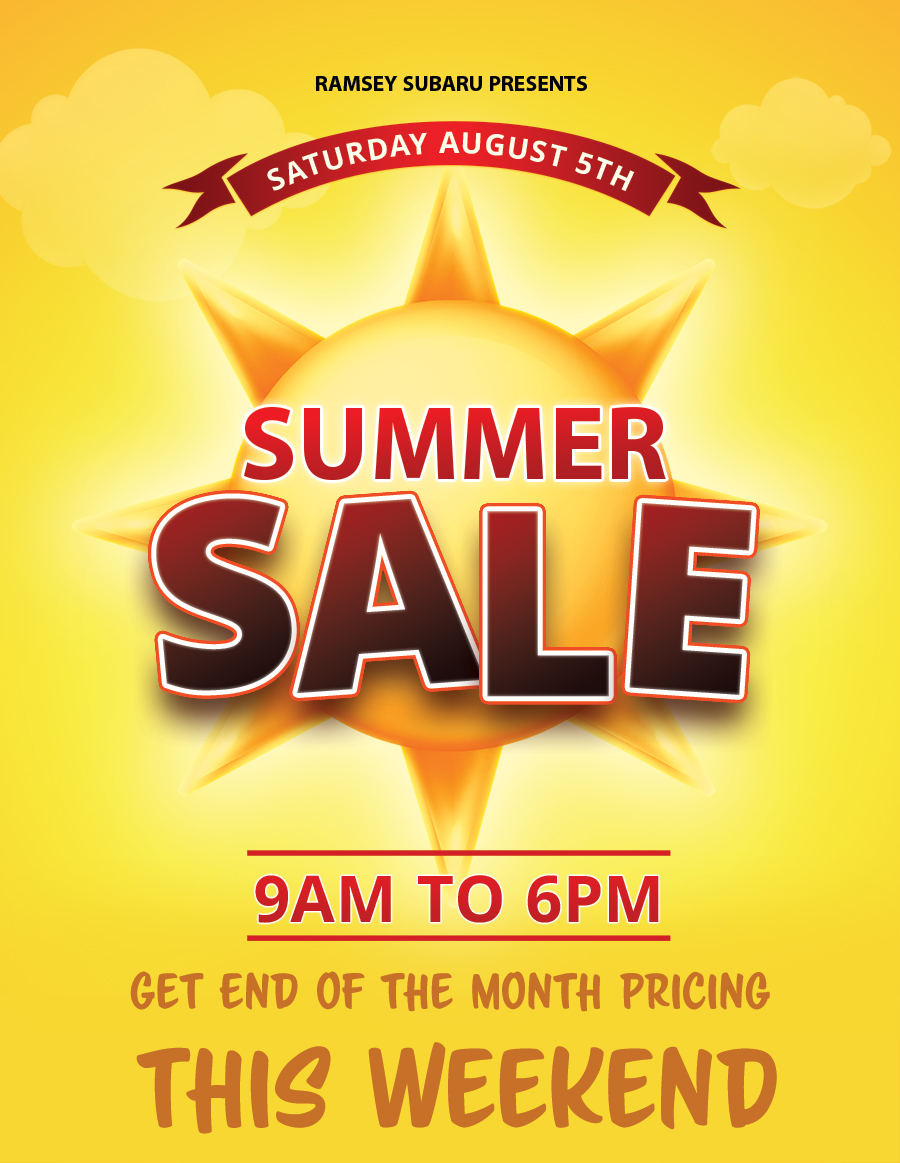
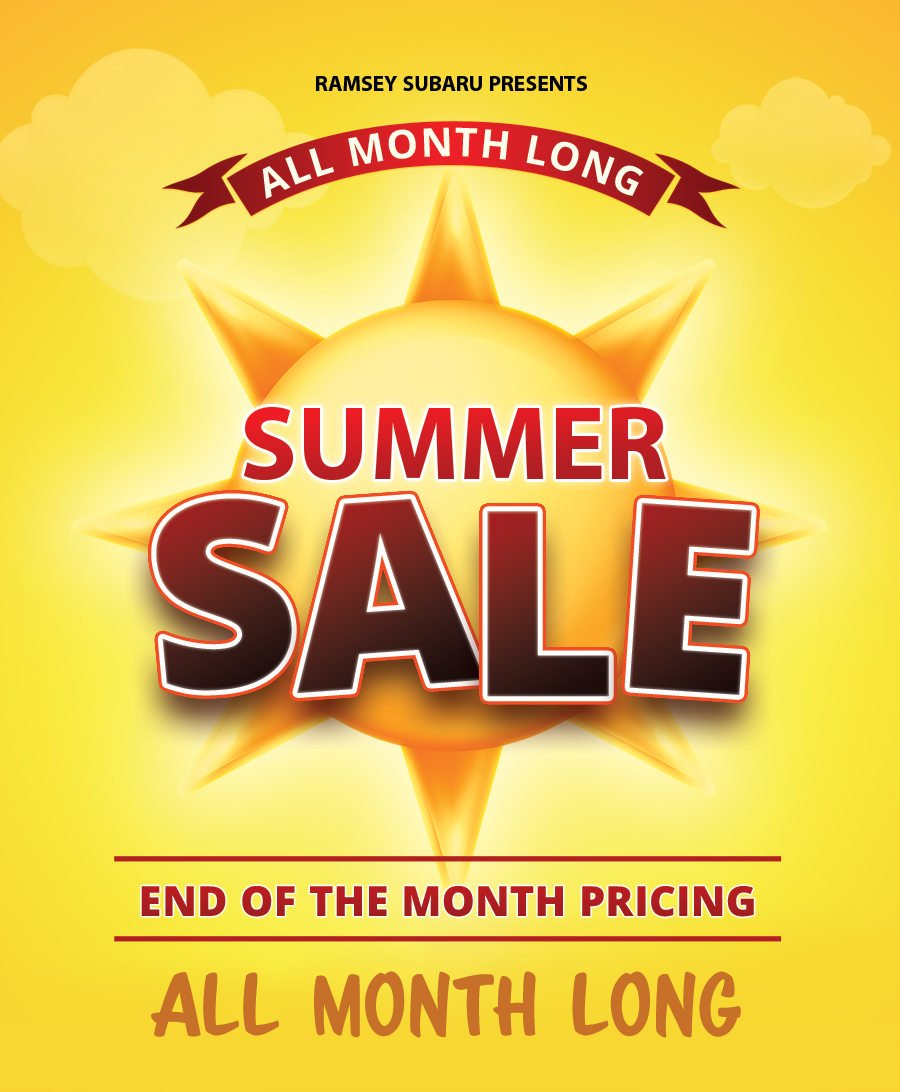
updated blast through end of month.

diff --git a/subaruEmails2017/summerWeekend/inlined.html b/subaruEmails2017/summerWeekend/inlined.html
@@ -1,0 +1,133 @@
+<!DOCTYPE html>
+<html style="padding: 0;margin: 0;border: 0;list-style: none;text-decoration: none;line-height: 1;border-collapse: collapse;font-family: Helvetica, sans-serif;">
+  <head>
+    <meta charset="utf-8">
+    <title>Subaru Memorial Day Sales Event</title>
+    <style media="screen">
+    /*RESET STYLES*/
+      html, body, #emailContainer, #bodyTable, table, tr, td, p, h1, h2, img, a, ul, li {
+        padding: 0;
+        margin: 0;
+        border: 0;
+        list-style: none;
+        text-decoration: none;
+        line-height: 1;
+        border-collapse: collapse;
+        font-family: Helvetica, sans-serif;
+      }
+      #emailContainer {
+        background-color: #fff;
+        text-align: center;
+        width: 100%;
+        height: 100vh;
+        padding: 50px 0;
+      }
+
+      #bodyTable {
+        background-color: #f8d731;
+        width: 650px;
+        margin: 0px auto;
+      }
+      img {
+        width: 650px;
+        display: block;
+      }
+      .buttonDiv {
+        width: 518px;
+        height: 60px;
+        background-color: #ffffff;
+        text-align: center;
+        margin: 0 auto;
+        border-bottom: 2px solid #f8d731;
+      }
+      .buttonLink {
+        line-height: 3.8;
+        width: 518px;
+        height: 60px;
+        background-color: #ffffff;
+        color: #000;
+        font-weight: 800;
+      }
+      #bodyArea {
+        display: block;
+        padding: 0 0 50px 0;
+      }
+      #terms {
+        font-size: 10px;
+        color: #c77028;
+        padding: 30px 100px;
+      }
+      #social {
+        text-align: center;
+        width: 650px;
+        margin:0 auto;
+        display: block;
+        padding: 50px 0;
+        border-top: 1px solid #c77028;
+      }
+      #social a {
+        color: #c77028;
+        line-height: 1.3;
+      }
+      #social img{
+        width: 26px;
+        display: inline;
+      }
+      #social li {
+        display: inline;
+      }
+      #bottomBodyTxt {
+        padding-top: 10px;
+        color: #c77028;
+        font-size: 37px;
+        text-align: center;
+      }
+    </style>
+  </head>
+  <body style="padding: 0;margin: 0;border: 0;list-style: none;text-decoration: none;line-height: 1;border-collapse: collapse;font-family: Helvetica, sans-serif;">
+    <div id="emailContainer" style="padding: 50px 0;margin: 0;border: 0;list-style: none;text-decoration: none;line-height: 1;border-collapse: collapse;font-family: Helvetica, sans-serif;background-color: #fff;text-align: center;width: 100%;height: 100vh;">
+      <table id="bodyTable" style="padding: 0;margin: 0px auto;border: 0;list-style: none;text-decoration: none;line-height: 1;border-collapse: collapse;font-family: Helvetica, sans-serif;background-color: #f8d731;width: 650px;">
+        <tr style="padding: 0;margin: 0;border: 0;list-style: none;text-decoration: none;line-height: 1;border-collapse: collapse;font-family: Helvetica, sans-serif;">
+          <td id="bodyArea" style="padding: 0 0 50px 0;margin: 0;border: 0;list-style: none;text-decoration: none;line-height: 1;border-collapse: collapse;font-family: Helvetica, sans-serif;display: block;">
+
+            <img src="http://ramseycarsnj.github.io/RamseyEmails2017/subaruEmails2017/summerWeekend/header.jpg" alt="headerImg" style="padding: 0;margin: 0;border: 0;list-style: none;text-decoration: none;line-height: 1;border-collapse: collapse;font-family: Helvetica, sans-serif;width: 650px;display: block;">
+            <p style="color: #c77028;padding: 20px 100px 20px 100px;line-height: 2;font-size: 20px;margin: 0;border: 0;list-style: none;text-decoration: none;border-collapse: collapse;font-family: Helvetica, sans-serif;">If you&apos;re in the market for a New Subaru Vehicle, you&apos;re in luck. Thanks to a <b>Fast Start Bonus</b> from Subaru, you can pick a Brand New Subaru vehicle right now instead of waiting until the end of the month.</p>
+
+            <p style="color: #c77028;padding: 0px 100px 40px 100px;line-height: 2;font-size: 30px;text-align: center;margin: 0;border: 0;list-style: none;text-decoration: none;border-collapse: collapse;font-family: Helvetica, sans-serif;">
+              <a href="tel:2013270070" style="color: #a85d1e;font-size: 35px;font-weight: 900;text-decoration: none;padding: 0;margin: 0;border: 0;list-style: none;line-height: 1;border-collapse: collapse;font-family: Helvetica, sans-serif;">Call</a> or <a href="http://www.ramseysubaru.net/" style="color: #a85d1e;font-size: 35px;font-weight: 900;text-decoration: none;padding: 0;margin: 0;border: 0;list-style: none;line-height: 1;border-collapse: collapse;font-family: Helvetica, sans-serif;">Click</a>
+              <br>
+              To Find Your Subaru
+          </p>
+            <h1 id="bottomBodyTxt" style="padding: 0;margin: 0;border: 0;list-style: none;text-decoration: none;line-height: 1;border-collapse: collapse;font-family: Helvetica, sans-serif;padding-top: 10px;color: #c77028;font-size: 37px;text-align: center;">OFFER ENDS SATURDAY</h1>
+
+
+
+          </td>
+        </tr>
+
+        <tr style="padding: 0;margin: 0;border: 0;list-style: none;text-decoration: none;line-height: 1;border-collapse: collapse;font-family: Helvetica, sans-serif;">
+          <td id="social" style="padding: 50px 0;margin: 0 auto;border: 0;list-style: none;text-decoration: none;line-height: 1;border-collapse: collapse;font-family: Helvetica, sans-serif;text-align: center;width: 650px;display: block;border-top: 1px solid #c77028;">
+            <ul style="padding: 0;margin: 0;border: 0;list-style: none;text-decoration: none;line-height: 1;border-collapse: collapse;font-family: Helvetica, sans-serif;">
+       <li style="padding: 0;margin: 0;border: 0;list-style: none;text-decoration: none;line-height: 1;border-collapse: collapse;font-family: Helvetica, sans-serif;display: inline;"><a href="https://www.facebook.com/RamseySubaru/" style="padding: 0;margin: 0;border: 0;list-style: none;text-decoration: none;line-height: 1.3;border-collapse: collapse;font-family: Helvetica, sans-serif;color: #c77028;"><img src="http://ramseycarsnj.github.io/RamseyEmails2017/subaruEmails2017/summerWeekend/facebookIcon.png" alt="facebook" style="padding: 0;margin: 0;border: 0;list-style: none;text-decoration: none;line-height: 1;border-collapse: collapse;font-family: Helvetica, sans-serif;width: 26px;display: inline;"></a></li>
+       <li style="padding: 0;margin: 0;border: 0;list-style: none;text-decoration: none;line-height: 1;border-collapse: collapse;font-family: Helvetica, sans-serif;display: inline;"><a href="https://twitter.com/RamseySubaruNJ" style="padding: 0;margin: 0;border: 0;list-style: none;text-decoration: none;line-height: 1.3;border-collapse: collapse;font-family: Helvetica, sans-serif;color: #c77028;"><img src="http://ramseycarsnj.github.io/RamseyEmails2017/subaruEmails2017/summerWeekend/twitterIcon.png" alt="twitter" style="padding: 0;margin: 0;border: 0;list-style: none;text-decoration: none;line-height: 1;border-collapse: collapse;font-family: Helvetica, sans-serif;width: 26px;display: inline;"></a></li>
+       <li style="padding: 0;margin: 0;border: 0;list-style: none;text-decoration: none;line-height: 1;border-collapse: collapse;font-family: Helvetica, sans-serif;display: inline;"><a href="https://www.youtube.com/ramseysubaru" style="padding: 0;margin: 0;border: 0;list-style: none;text-decoration: none;line-height: 1.3;border-collapse: collapse;font-family: Helvetica, sans-serif;color: #c77028;"><img src="http://ramseycarsnj.github.io/RamseyEmails2017/subaruEmails2017/summerWeekend/youtubeIcon.png" alt="youtube" style="padding: 0;margin: 0;border: 0;list-style: none;text-decoration: none;line-height: 1;border-collapse: collapse;font-family: Helvetica, sans-serif;width: 26px;display: inline;"></a></li>
+       <li style="padding: 0;margin: 0;border: 0;list-style: none;text-decoration: none;line-height: 1;border-collapse: collapse;font-family: Helvetica, sans-serif;display: inline;"><a href="https://www.instagram.com/ramseysubaru/" style="padding: 0;margin: 0;border: 0;list-style: none;text-decoration: none;line-height: 1.3;border-collapse: collapse;font-family: Helvetica, sans-serif;color: #c77028;"><img src="http://ramseycarsnj.github.io/RamseyEmails2017/subaruEmails2017/summerWeekend/instagramIcon.png" alt="instagram" style="padding: 0;margin: 0;border: 0;list-style: none;text-decoration: none;line-height: 1;border-collapse: collapse;font-family: Helvetica, sans-serif;width: 26px;display: inline;"></a></li>
+     </ul>
+     <br>
+     <a href="http://www.ramseysubaru.net/" style="padding: 0;margin: 0;border: 0;list-style: none;text-decoration: none;line-height: 1.3;border-collapse: collapse;font-family: Helvetica, sans-serif;color: #c77028;">Ramsey Subaru</a>
+     <br>
+     <a href="http://www.ramseysubaru.net/dealership/directions.htm" style="padding: 0;margin: 0;border: 0;list-style: none;text-decoration: none;line-height: 1.3;border-collapse: collapse;font-family: Helvetica, sans-serif;color: #c77028;">905 Rt17s Ramsey, NJ</a>
+     <br>
+     <a href="tel:2013270070" style="padding: 0;margin: 0;border: 0;list-style: none;text-decoration: none;line-height: 1.3;border-collapse: collapse;font-family: Helvetica, sans-serif;color: #c77028;">201.327.0070</a>
+     <br>
+            <p id="terms" style="padding: 30px 100px;margin: 0;border: 0;list-style: none;text-decoration: none;line-height: 1;border-collapse: collapse;font-family: Helvetica, sans-serif;font-size: 10px;color: #c77028;">
+Offers end 8/5/17. All in-bound vehicles are to be discounted at the Manager's discretion. Offer not available on sold orders or existing deals. See dealer for full details. Not responsible for typographical errors.
+            </p>
+
+          </td>
+        </tr>
+      </table>
+    </div>
+
+  </body>
+</html>
